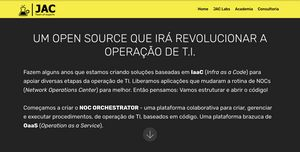
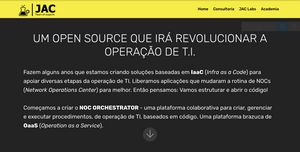
atualizando menu principal

Changed region(s): [[0.69, 0.0263, 0.93, 0.0789], [0.9, 0.1316, 0.96, 0.2105], [0.48, 0.8684, 0.51, 0.9211]]

diff --git a/index.html b/index.html
@@ -54,11 +54,11 @@ Consultoria, serviços e treinamentos. Sob medida. Simples assim.">
                         Home</a>
                 </li>
                <li class="nav-item">
-                    <a class="nav-link link text-black display-4" href="page2.html">
+                    <a class="nav-link link text-black display-4" href="consultoria.html">
                         Consultoria</a>
                 </li>
               <li class="nav-item">
-                    <a class="nav-link link text-black display-4" href="page1.html">
+                    <a class="nav-link link text-black display-4" href="noc.html">
                         JAC Labs</a>
                 </li>
               
@@ -72,7 +72,7 @@ Consultoria, serviços e treinamentos. Sob medida. Simples assim.">
     </nav>
 </section>
 
-<section class="engine"><a href="https://mobirise.info/p">site templates free download</a></section><section class="header15 cid-rN4GZiOiST mbr-fullscreen" id="header15-1">
+<section class="engine"><a href="https://mobirise.info/h">create a web page for free</a></section><section class="header15 cid-rN4GZiOiST mbr-fullscreen" id="header15-1">
 
     
 
@@ -91,7 +91,7 @@ Consultoria, serviços e treinamentos. Sob medida. Simples assim.">
                     <div class="media-container-column" data-form-type="formoid">
                         <!---Formbuilder Form--->
                       
[2 lines of base64/hex data omitted]
                             <div class="row">
                                 <div hidden="hidden" data-form-alert="" class="alert alert-success col-12">Em breve responderemos sua mensagem!</div>
                                 <div hidden="hidden" data-form-alert-danger="" class="alert alert-danger col-12">

diff --git a/noc.html b/noc.html
@@ -52,12 +52,12 @@
                     <a class="nav-link link text-black display-4" href="index.html">
                         Home</a>
                 </li>
-              <li class="nav-item">
-                    <a class="nav-link link text-black display-4" href="page2.html">
+             <li class="nav-item">
+                    <a class="nav-link link text-black display-4" href="consultoria.html">
                         Consultoria</a>
                 </li>
               <li class="nav-item">
-                    <a class="nav-link link text-black display-4" href="page1.html">
+                    <a class="nav-link link text-black display-4" href="noc.html">
                         JAC Labs</a>
                 </li>
               
@@ -71,7 +71,7 @@
     </nav>
 </section>
 
-<section class="engine"><a href="https://mobirise.info/g">how to build your own website</a></section><section class="header11 cid-rN4NghCGcZ mbr-fullscreen" id="header11-c">
+<section class="engine"><a href="https://mobirise.info/m">free website design templates</a></section><section class="header11 cid-rN4NghCGcZ mbr-fullscreen" id="header11-c">
 
     <!-- Block parameters controls (Blue "Gear" panel) -->
     
@@ -557,7 +557,7 @@
         <div class="row justify-content-center">
             <div class="media-container-column col-lg-8" data-form-type="formoid">
                 <!---Formbuilder Form--->
[2 lines of base64/hex data omitted]
                     <div class="row">
                         <div hidden="hidden" data-form-alert="" class="alert alert-success col-12">Entraremos em contato!</div>
                         <div hidden="hidden" data-form-alert-danger="" class="alert alert-danger col-12">

diff --git a/consultoria.html b/consultoria.html
@@ -51,12 +51,12 @@
                     <a class="nav-link link text-black display-4" href="index.html">
                         Home</a>
                 </li>
-              <li class="nav-item">
-                    <a class="nav-link link text-black display-4" href="page2.html">
+             <li class="nav-item">
+                    <a class="nav-link link text-black display-4" href="consultoria.html">
                         Consultoria</a>
                 </li>
               <li class="nav-item">
-                    <a class="nav-link link text-black display-4" href="page1.html">
+                    <a class="nav-link link text-black display-4" href="noc.html">
                         JAC Labs</a>
                 </li>
               
@@ -70,7 +70,7 @@
     </nav>
 </section>
 
-<section class="engine"><a href="https://mobirise.info/s">bootstrap theme</a></section><section class="mbr-section content4 cid-rN8mM6OjRn" id="content4-t">
+<section class="engine"><a href="https://mobirise.info/a">online web builder</a></section><section class="mbr-section content4 cid-rN8mM6OjRn" id="content4-t">
 
     
 
@@ -223,7 +223,7 @@
         <div class="row justify-content-center">
             <div class="media-container-column col-lg-8" data-form-type="formoid">
                 <!---Formbuilder Form--->
[2 lines of base64/hex data omitted]
                     <div class="row">
                         <div hidden="hidden" data-form-alert="" class="alert alert-success col-12">Obrigado pelo contato!</div>
                         <div hidden="hidden" data-form-alert-danger="" class="alert alert-danger col-12">
